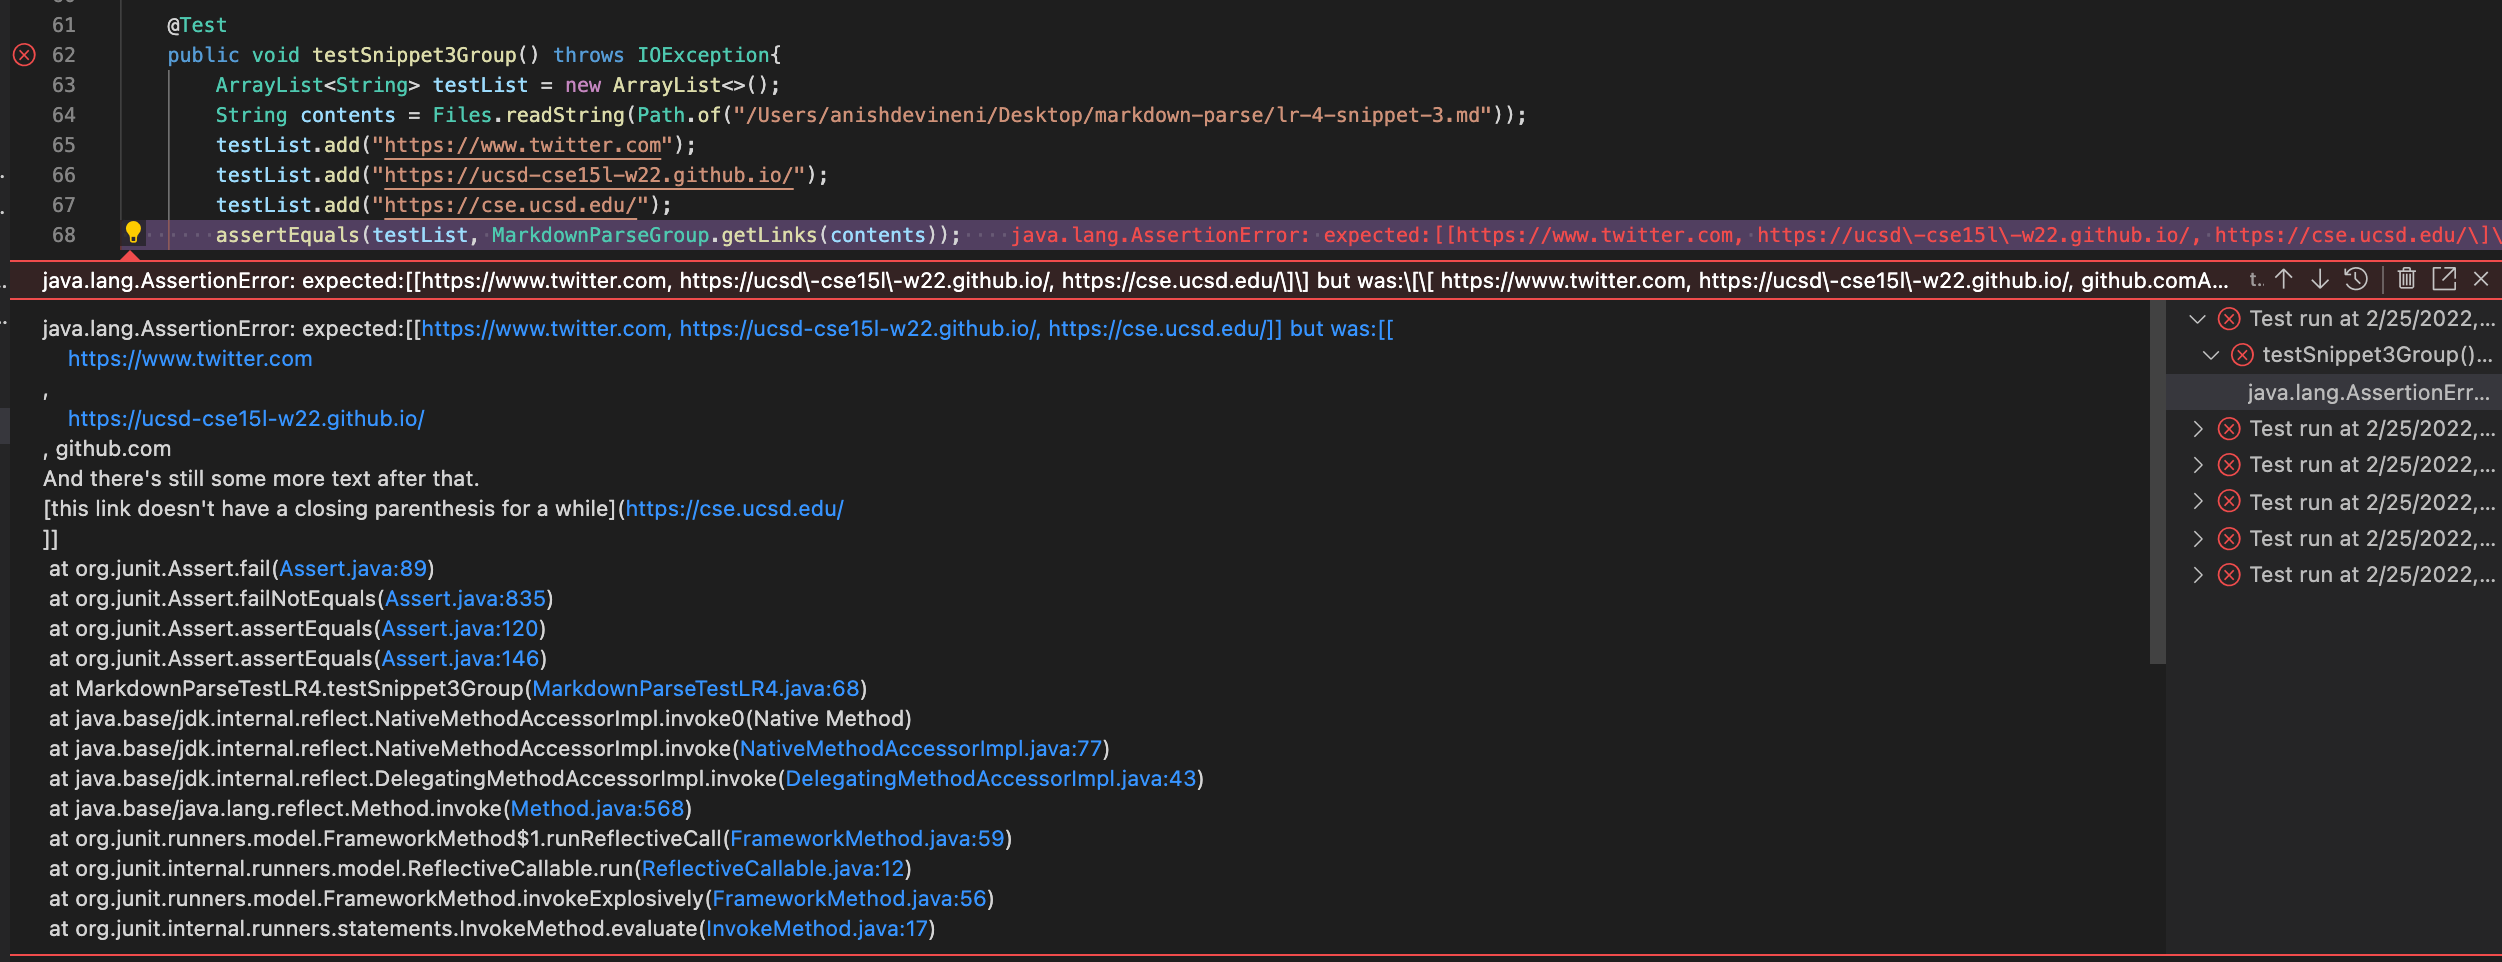
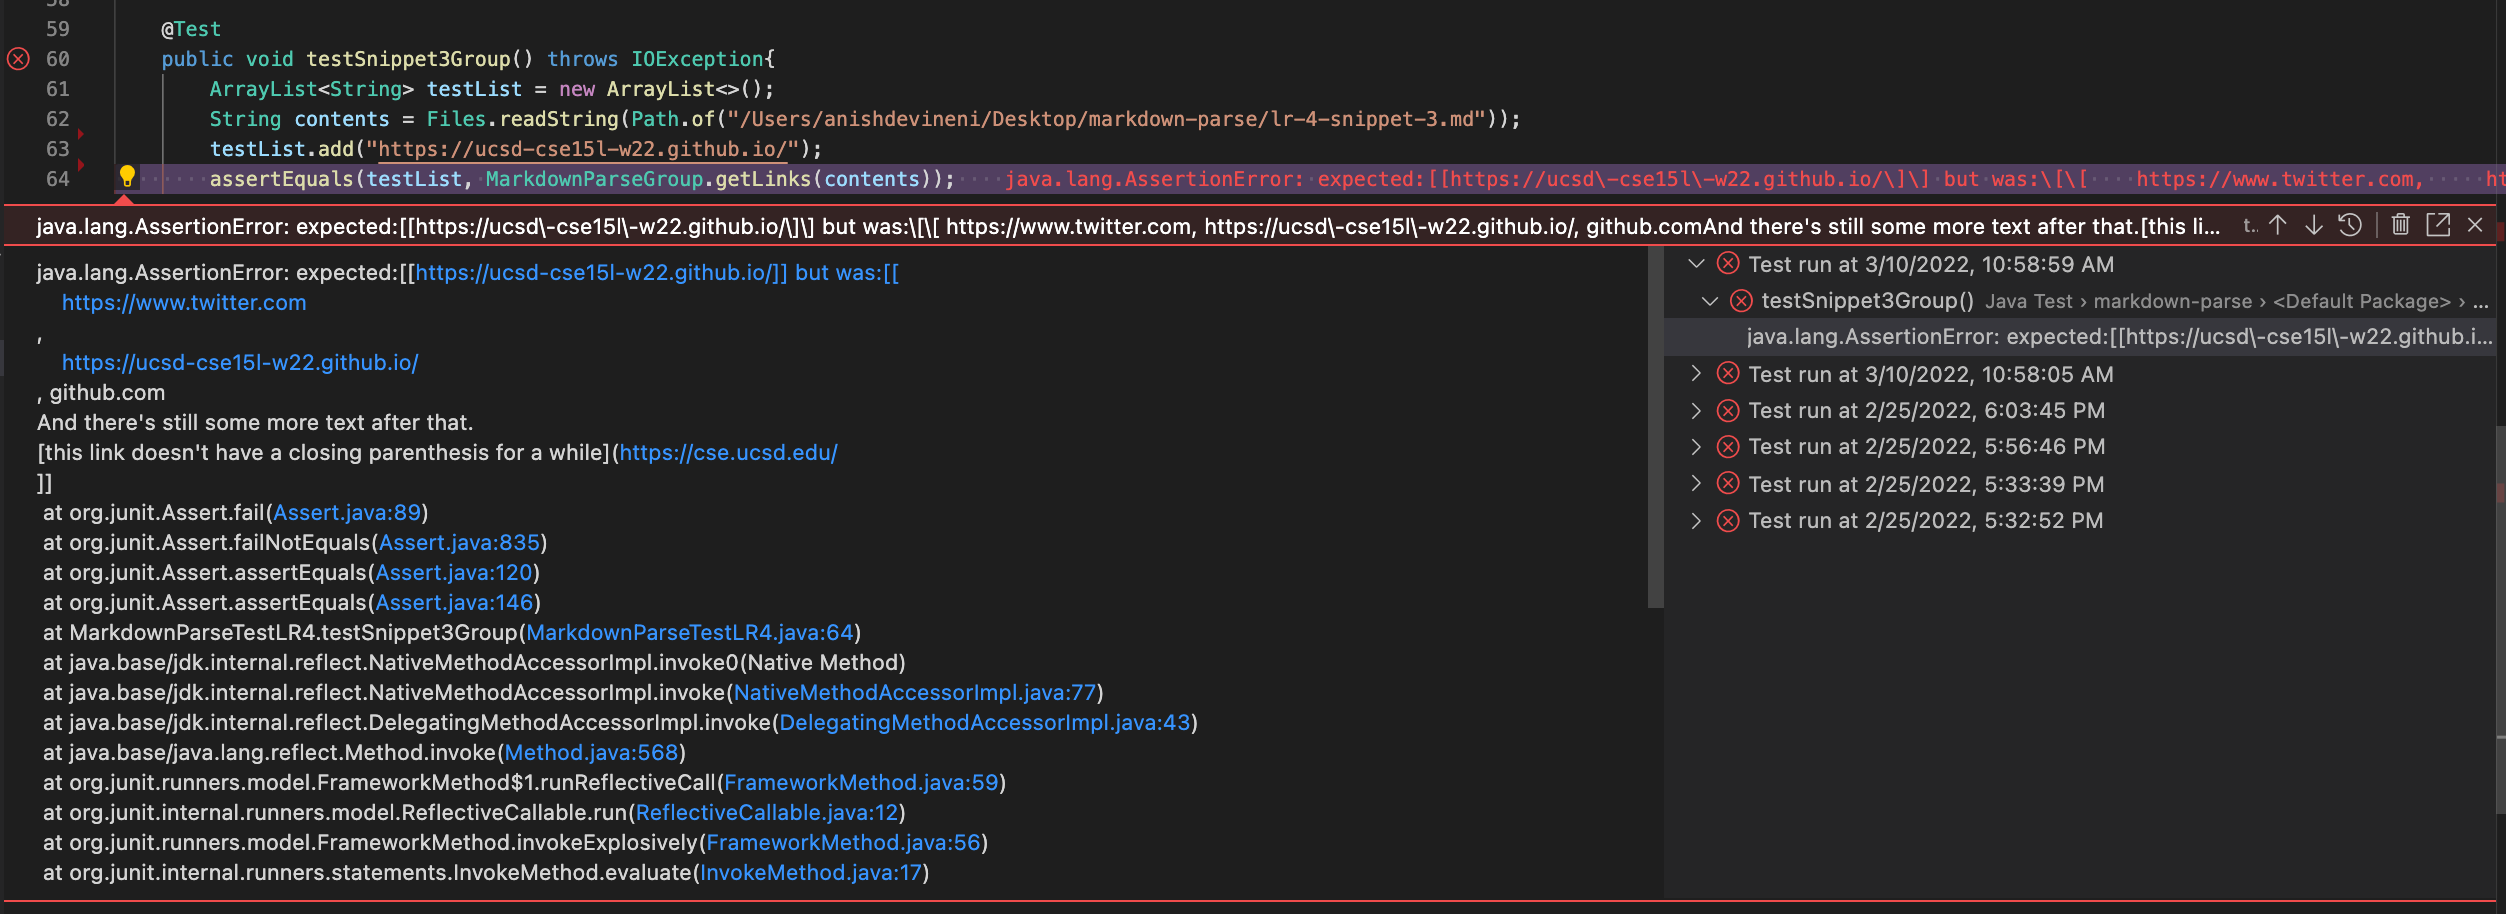
Lab Report 4 Issue Fix

Changed region(s): [[0.0, 0.0, 1.0, 1.0]]

diff --git a/lab-report-4-week-8.md b/lab-report-4-week-8.md
@@ -68,13 +68,13 @@ I don't believe that the change required to make the MarkdownParse program work 
 
 ## Code Snippet 3
 
-The second code snippet produces the following output in the VSCode preview:
+The second code snippet produces the following output in the CommonMark demo site:
 
-![Image](/img/lab-report-4/snippet-3-vscode-preview.png)
+![Image](/img/lab-report-4/snippet-3-commonmark-demo.png)
 
-From this preview, we can tell that there are 3 valid links in total, which are the ones that appear in blue. The rest should not be considered valid links. Therefore, the expected output from the markdown parser should be:
+From this preview, we can tell that there is 1 valid link in total, which is the one that appears in blue. The rest should not be considered valid links. Therefore, the expected output from the markdown parser should be:
 
-`[https://www.twitter.com, https://ucsd-cse15l-w22.github.io/, https://cse.ucsd.edu/]`
+`[https://ucsd-cse15l-w22.github.io/]`
 
 <br/>
 
